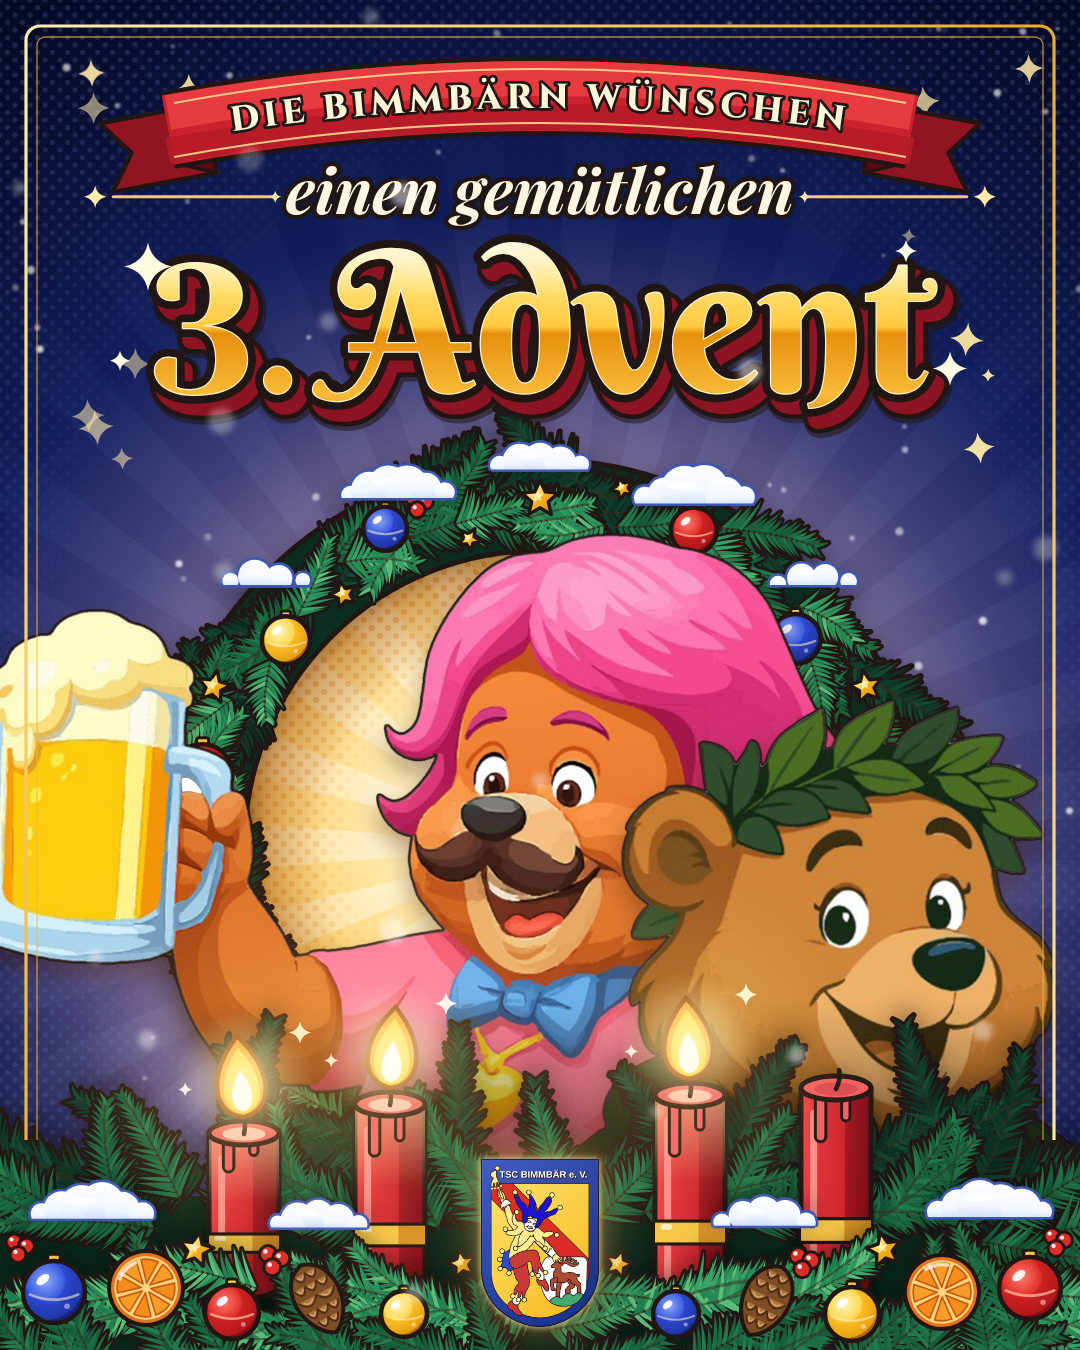
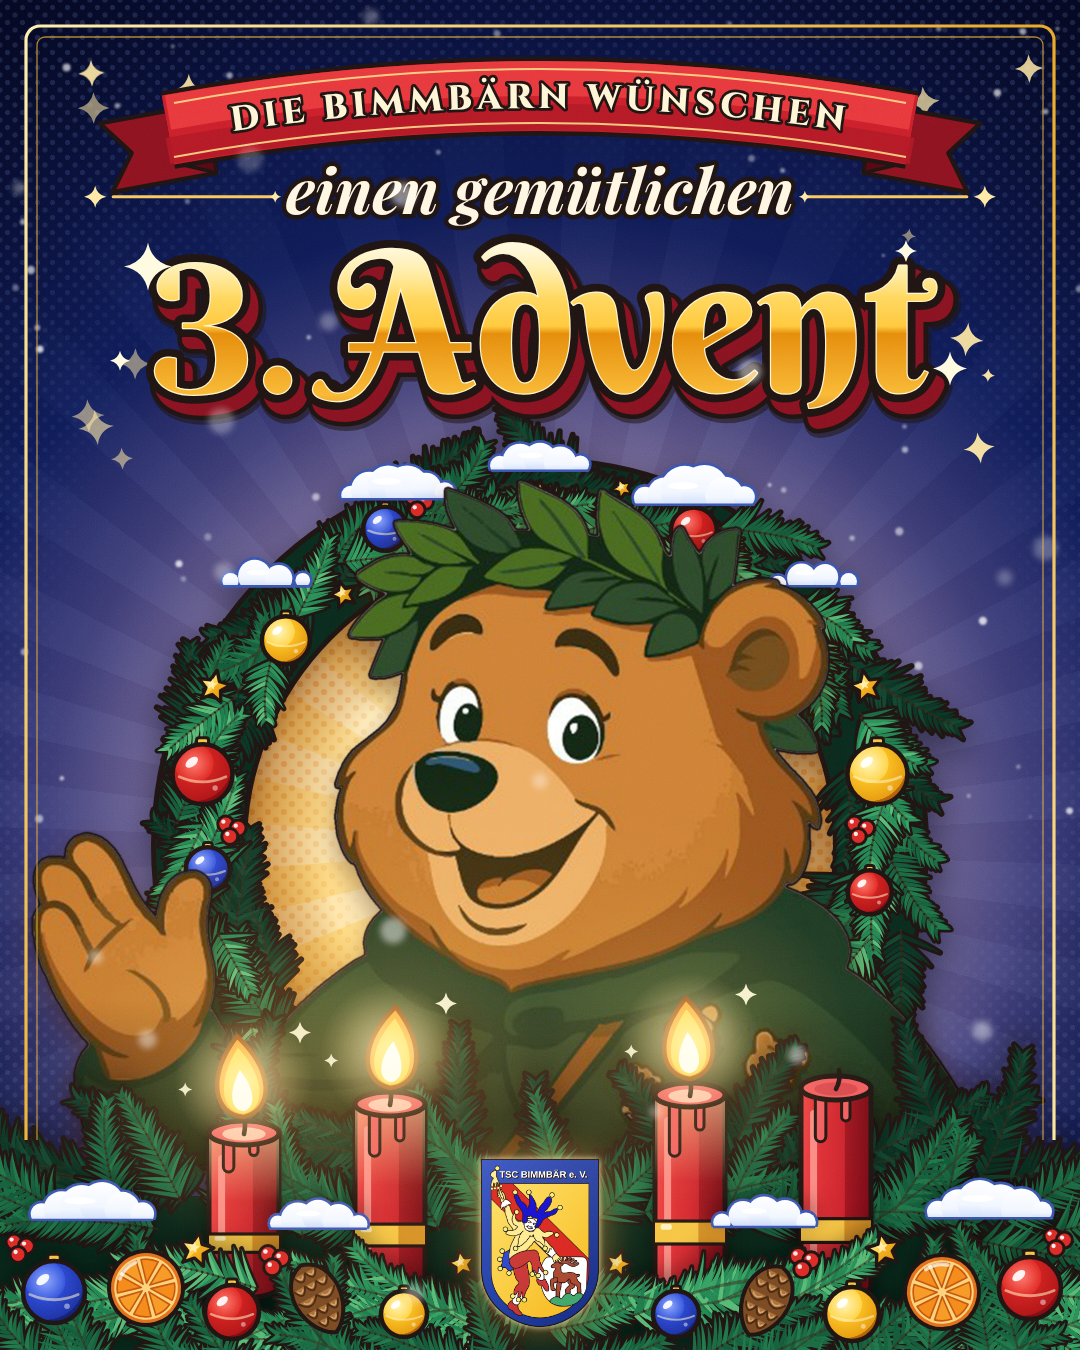
Bimmbärn-Advent: 3. Advent als Einzelmotiv mit dem Bembel-Bären
Das Duo aus Männerballett- und Bembel-Bär war zu gedrängt; der Männerballett-Bär
bleibt im Gruppenbild zum 4. Advent.

Claude-Session: https://claude.ai/code/session_012cM65WQoxbXVwb3iT9g9GM

Changed region(s): [[0.0, 0.3422, 0.9778, 0.8711], [0.9472, 0.8089, 0.9778, 0.8711]]

diff --git a/bimmbaern-advent/src/advent.html b/bimmbaern-advent/src/advent.html
@@ -59,7 +59,7 @@ const LAYOUT = {
     crest: { top: 1158, h: 170 },
     1: [{ k: 'praesident', cx: 592, by: 1166, s: .375 }],
     2: [{ k: 'tracht', cx: 770, by: 1170, s: .355 }, { k: 'garde', cx: 304, by: 1170, s: .385 }],
-    3: [{ k: 'ballett', cx: 610, by: 1166, s: .37 }, { k: 'bembel', cx: 826, by: 1300, s: .35, flip: true }],
+    3: [{ k: 'bembel', cx: 596, by: 1166, s: .40 }],
     4: [{ k: 'garde', cx: 236, by: 934, s: .26, fade: true }, { k: 'tracht', cx: 848, by: 934, s: .26, fade: true }, { k: 'praesident', cx: 566, by: 962, s: .29, fade: true },
         { k: 'ballett', cx: 408, by: 1178, s: .26, shade: .74 }, { k: 'bembel', cx: 752, by: 1178, s: .26, flip: true, shade: .74 }],
   },
@@ -71,7 +71,7 @@ const LAYOUT = {
     crest: { top: 1516, h: 214 },
     1: [{ k: 'praesident', cx: 604, by: 1540, s: .435 }],
     2: [{ k: 'tracht', cx: 760, by: 1540, s: .42 }, { k: 'garde', cx: 300, by: 1560, s: .46 }],
-    3: [{ k: 'ballett', cx: 670, by: 1540, s: .42 }, { k: 'bembel', cx: 836, by: 1710, s: .40, flip: true }],
+    3: [{ k: 'bembel', cx: 664, by: 1540, s: .46 }],
     4: [{ k: 'garde', cx: 240, by: 1236, s: .31, fade: true }, { k: 'tracht', cx: 844, by: 1236, s: .31, fade: true }, { k: 'praesident', cx: 566, by: 1250, s: .34, fade: true },
         { k: 'ballett', cx: 466, by: 1528, s: .29, shade: .76 }, { k: 'bembel', cx: 772, by: 1528, s: .29, flip: true, shade: .76 }],
   },

diff --git a/bimmbaern-advent/README.md b/bimmbaern-advent/README.md
@@ -9,7 +9,7 @@ Fertige Bilder: `out/bimmbaern_<n>-advent_<format>.png`
 |---|---|---|
 | 1. Advent | einen schönen | Sitzungspräsident |
 | 2. Advent | einen besinnlichen | Garde + Tracht |
-| 3. Advent | einen gemütlichen | Männerballett + Bembel |
+| 3. Advent | einen gemütlichen | Bembel |
 | 4. Advent | einen frohen | alle fünf |
 
 Aufbau: gebogenes Banner und Goldschrift oben, die Bären vor einem Adventskranz mit Goldscheibe,
